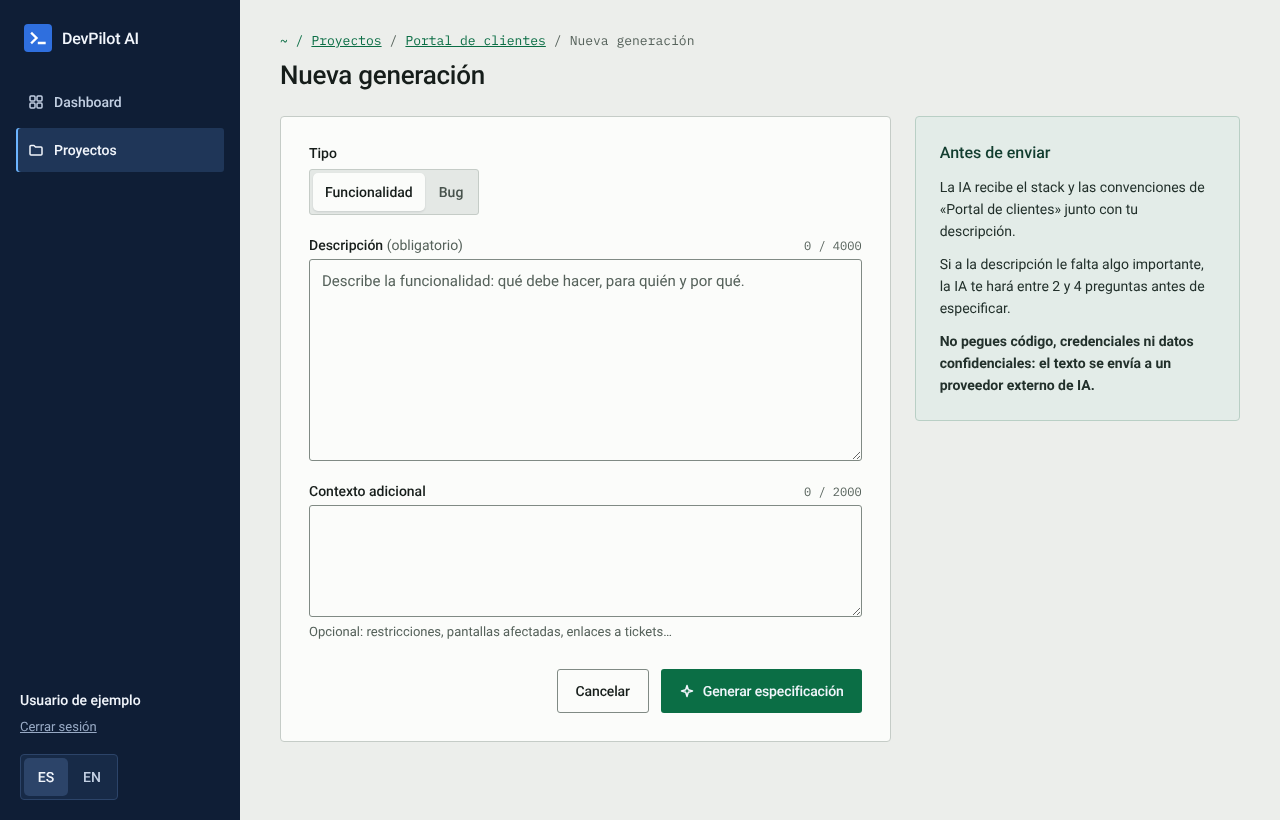
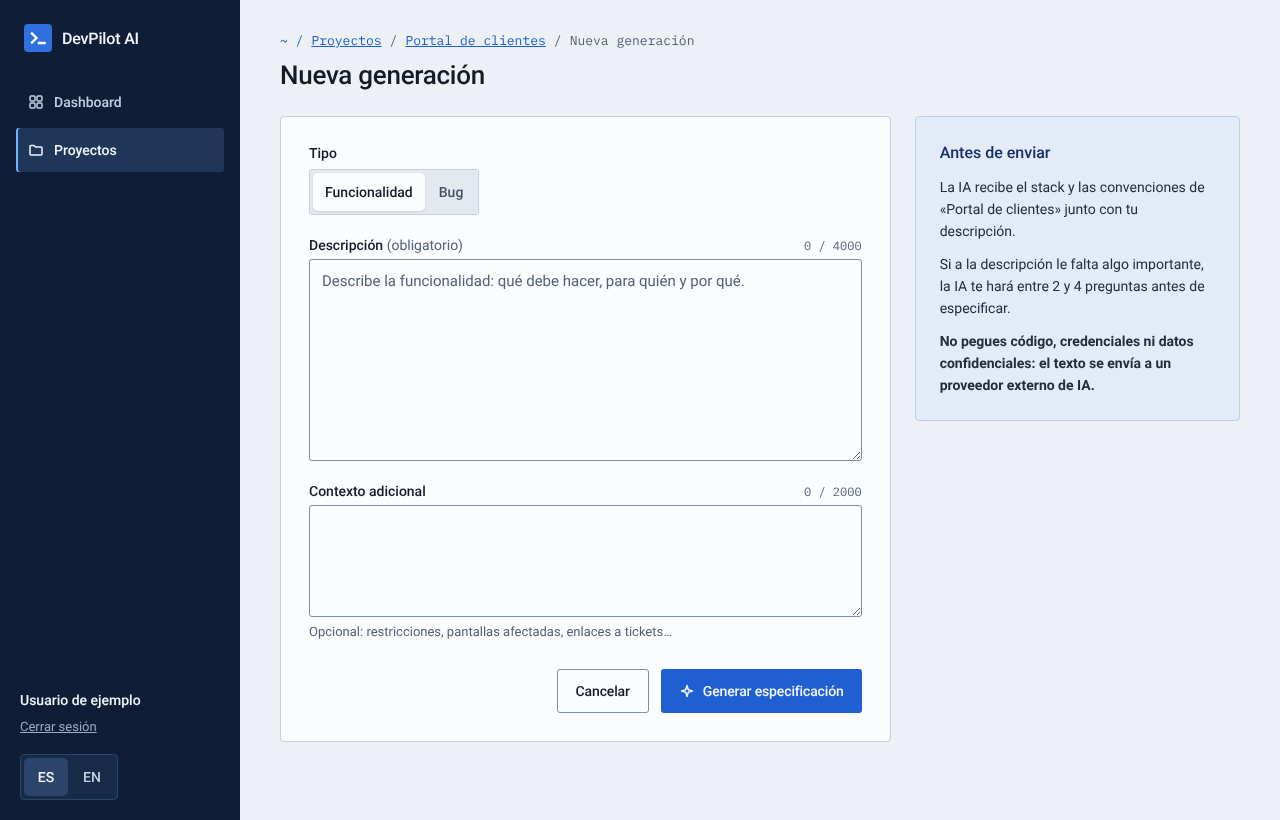
style(web): blue as the action colour, cool neutral greys

diff --git a/apps/web/src/styles/tokens.css b/apps/web/src/styles/tokens.css
@@ -1,9 +1,9 @@
 /* Tokens de diseño. Los componentes usan estas variables, nunca colores ni tamaños escritos
    a mano.
 
-   Dirección: una herramienta de desarrollo. Base clara gris grafito con bordes definidos y
-   radios pequeños; verde para lo que está listo o pasa (como un CI en verde) y ámbar para
-   lo que pide atención. Roboto para toda la interfaz; IBM Plex Mono solo para lo técnico:
+   Dirección: una herramienta de desarrollo. Base clara gris azulado con bordes definidos y
+   radios pequeños; azul como color de acción (botones, enlaces, gráficas, foco), verde solo
+   para los estados completados y ámbar para lo que pide atención. Roboto para toda la interfaz; IBM Plex Mono solo para lo técnico:
    la ruta, los números de sección, las fechas, los contadores y las etiquetas de stack.
    La barra lateral y la marca van en una gama de azules. */
 :root {
@@ -12,38 +12,37 @@
   /* Títulos de página y cifras. */
   --font-display: var(--font-sans);
 
-  --color-ground: #eceeeb;
-  --color-surface: #fbfcfa;
+  --color-ground: #edf0f4;
+  --color-surface: #fbfcfe;
   --color-navy: #0f1e36;
   --color-navy-raised: #172a47;
   --color-navy-active: #1f3658;
   --color-navy-border: #2c4469;
-  --color-accent: #0b6e45;
-  --color-accent-hover: #084f32;
-  /* La marca (el icono >_) y la barra lateral van en azul; el verde queda para lo que está
-     listo o pasa. */
+  --color-accent: #1f5fd1;
+  --color-accent-hover: #184aa6;
+  /* La marca: el icono >_ y la pestaña del navegador. */
   --color-brand: #2f6fde;
   /* Solo sobre la barra lateral oscura: indicador de la sección activa. */
   --color-accent-bright: #6cb4ff;
   /* Barras de las gráficas: contraste de 3:1 sobre la superficie (WCAG 1.4.11). */
-  --color-chart: #138a59;
-  --color-chart-muted: #a9c9b8;
+  --color-chart: #2f6fde;
+  --color-chart-muted: #b7cbef;
 
-  --color-text: #161d1a;
-  --color-text-strong: #29322d;
-  --color-text-muted: #47524c;
-  --color-text-subtle: #56625b;
+  --color-text: #141b26;
+  --color-text-strong: #283244;
+  --color-text-muted: #465264;
+  --color-text-subtle: #556175;
   --color-text-on-navy: #f2f6fc;
   --color-text-on-navy-muted: #c3d0e3;
   --color-text-on-navy-subtle: #97a9c4;
 
-  --color-border: #c5ccc7;
-  --color-border-strong: #808a84;
-  --color-border-soft: #dde2de;
-  --color-surface-muted: #f3f5f2;
+  --color-border: #c8d0db;
+  --color-border-strong: #808b9b;
+  --color-border-soft: #dfe4eb;
+  --color-surface-muted: #f3f5f9;
 
-  --color-neutral-bg: #e4e8e5;
-  --color-neutral-text: #333d37;
+  --color-neutral-bg: #e4e9f0;
+  --color-neutral-text: #333e50;
   --color-success-bg: #d4ecdf;
   --color-success-text: #0a5434;
   --color-warning-bg: #f6e8c6;
@@ -54,14 +53,14 @@
   --color-danger-outline: #e3a9a2;
   --color-danger-solid: #b42318;
   --color-danger-solid-hover: #912018;
-  --color-info-bg: #e3ece8;
-  --color-info-border: #b9cfc5;
-  --color-info-text: #1b4a3a;
-  --color-info-title: #123d2f;
-  --color-info-body: #22302b;
+  --color-info-bg: #e3ebf9;
+  --color-info-border: #bccdee;
+  --color-info-text: #1b3d7a;
+  --color-info-title: #13306a;
+  --color-info-body: #222d40;
   --color-caution-bg: #f9e4d1;
   --color-caution-text: #833208;
-  --color-backdrop: rgb(22 29 26 / 50%);
+  --color-backdrop: rgb(15 23 38 / 50%);
 
   --radius-xs: 2px;
   --radius-sm: 3px;
@@ -69,5 +68,5 @@
   --radius-lg: 6px;
   --control-height: 44px;
   --control-height-sm: 40px;
-  --shadow-dialog: 0 16px 40px rgb(22 29 26 / 22%);
+  --shadow-dialog: 0 16px 40px rgb(15 23 38 / 22%);
 }

diff --git a/apps/web/src/components/atoms/StatusBadge/StatusBadge.module.css b/apps/web/src/components/atoms/StatusBadge/StatusBadge.module.css
@@ -4,7 +4,7 @@
   gap: 6px;
   padding: 2px 8px;
   border-radius: var(--radius-xs);
-  box-shadow: inset 0 0 0 1px rgb(22 29 26 / 10%);
+  box-shadow: inset 0 0 0 1px rgb(15 23 38 / 10%);
   font-size: 12px;
   font-weight: 500;
   line-height: 1.4;
